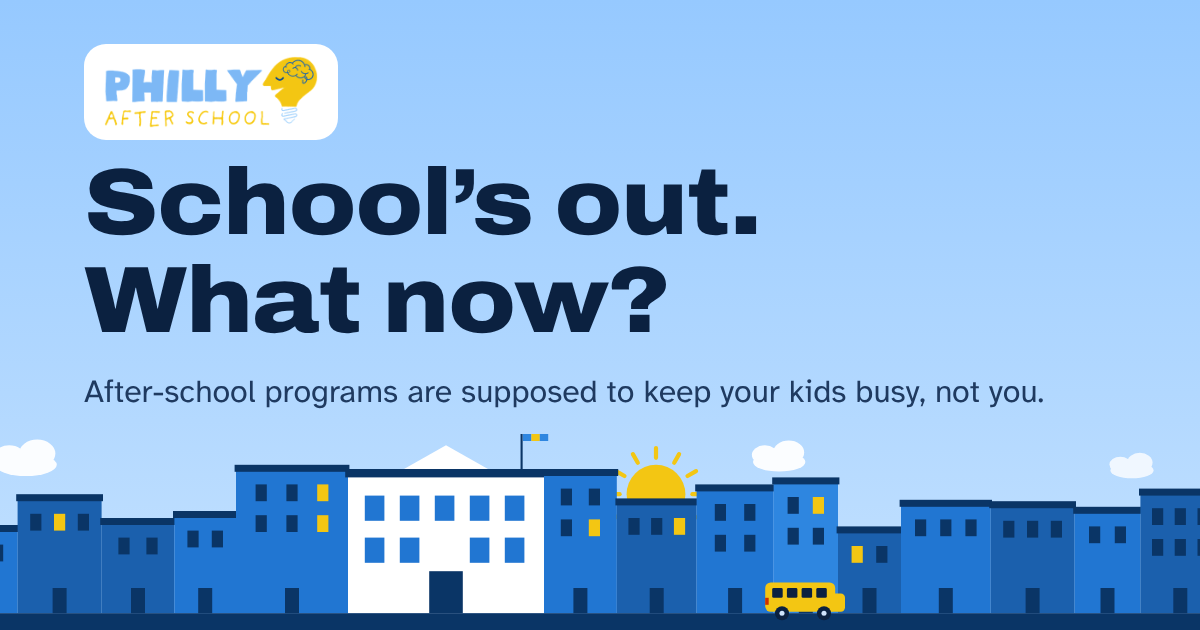
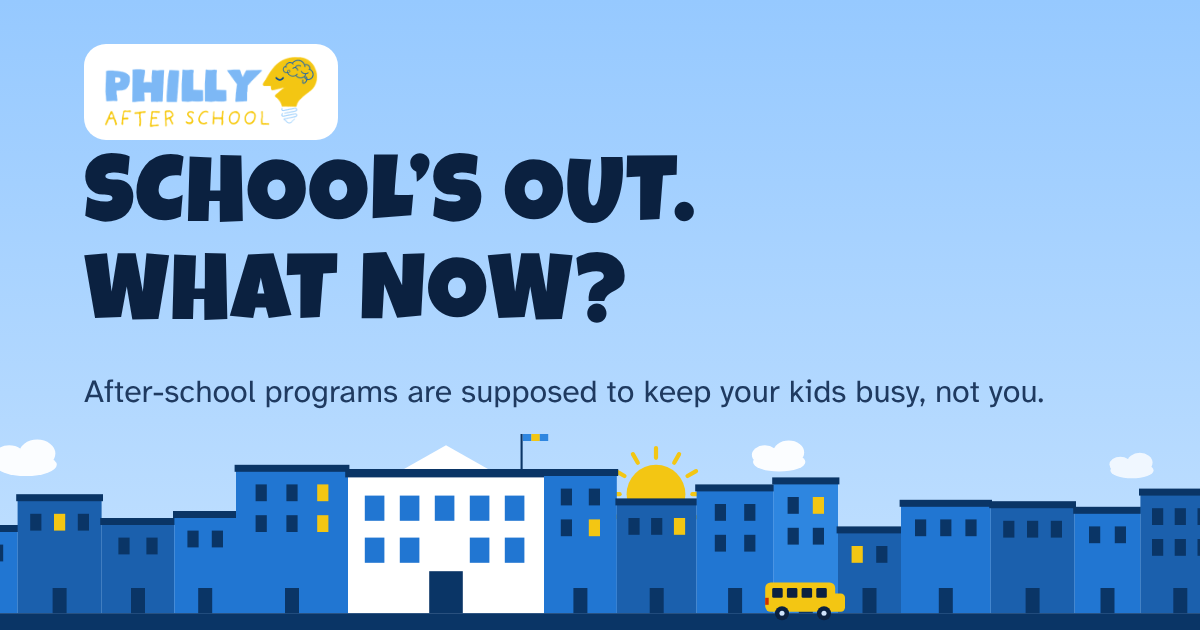
Type from the branding kit: page titles in Luckiest Guy, the line over them in Schoolbell
Free Google Fonts standing in for the kit's Kapsalon and Hangyaboly:
every h1 is now heavy painted capitals (set in capitals by CSS, so the
HTML keeps its casing) and the hero's small line (breadcrumb, school
line) is a thin print hand. Section headings, cards and body text are
unchanged. Both link-preview pictures are redrawn with the new title.

Claude-Session: https://claude.ai/code/session_014J9upzwzYj5u4U8HYNcMSU

Changed region(s): [[0.0617, 0.2413, 0.6475, 0.5429]]

diff --git a/src/site.css b/src/site.css
@@ -17,6 +17,10 @@
   --street:#0A3566; --scene-line:#0A3566; --scene-drop:#1763B8; --cloud-1:.95; --cloud-2:.8; --sun:1; --note:#0A3566;
   --display:"Archivo","Arial Black","Helvetica Neue",Arial,sans-serif;
   --body:"Atkinson Hyperlegible","Segoe UI",system-ui,sans-serif;
+  /* the branding kit's type, in free stand-ins: page titles in Luckiest Guy (for Kapsalon, heavy painted caps) and the
+     small line over a title in Schoolbell (for Hangyaboly, a thin print hand). Section headings and cards stay in Archivo. */
+  --title:"Luckiest Guy","Arial Black",Impact,sans-serif;
+  --hand:"Schoolbell","Comic Sans MS","Segoe Print",cursive;
 }
 /* One look, day or night. The site doesn't follow a device's dark setting: its colours, calendars and pictures are
    drawn for a light page. "only light" also tells browsers that darken pages by themselves to leave this one alone. */
@@ -28,7 +32,7 @@ html{-webkit-text-size-adjust:100%}
 body{margin:0;background:var(--bg);color:var(--ink);font-family:var(--body);font-size:17px;line-height:1.5}
 img,svg{max-width:100%}
 h1,h2,h3{font-family:var(--display);font-stretch:112%;text-wrap:balance;margin:0;line-height:1.08;letter-spacing:-.01em}
-h1{font-size:clamp(2.1rem,7vw,3.9rem);font-weight:850}
+h1{font-family:var(--title);font-stretch:normal;font-weight:400;text-transform:uppercase;letter-spacing:.02em;font-size:clamp(2rem,6.6vw,3.7rem);line-height:1.02}
 h2{font-size:clamp(1.3rem,3vw,1.6rem);font-weight:800}
 h3{font-size:1.2rem;font-weight:750}
 p{margin:0}
@@ -48,7 +52,7 @@ a:focus-visible,button:focus-visible,input:focus-visible,summary:focus-visible{o
 .nav a:hover,.nav a[aria-current="page"]{border-bottom-color:var(--hero-accent)}
 .hero{padding-block:clamp(28px,6vw,64px) clamp(28px,5vw,52px);display:flex;flex-direction:column;gap:18px}
 .hero .lede{color:var(--hero-muted);font-size:clamp(1.05rem,2.2vw,1.25rem);max-width:60ch}
-.hero .where{color:var(--hero-muted);font-size:1rem}
+.hero .where{color:var(--hero-muted);font-family:var(--hand);font-size:1.25rem;letter-spacing:.01em}
 .pill.multi{white-space:normal;border-radius:14px;line-height:1.35;padding:4px 12px}   /* a label long enough to run onto a second line */
 .hero .where .served{display:inline-flex;flex-wrap:wrap;gap:6px;vertical-align:middle;margin-left:8px}
 .hero .where .pill{font-size:.92rem}

diff --git a/README.md b/README.md
@@ -1056,6 +1056,16 @@ counts (the days-off card keeps "N days off still to come", and the summer card 
 stay off the home page's tiles and type chips too; a filter bar's counts and a list section's "(N)" are the live
 numbers of what is on the page, and stay.
 
+**Type.** Four faces, all from Google Fonts (one `<link>` in `layout()`): page titles (`h1`) are **Luckiest Guy**, heavy
+painted capitals (`--title`; the text is set in capitals by CSS, so a title keeps its own casing in the HTML and in
+search results), the small line over a title (`.hero .where`, the breadcrumb or the school's one-line description)
+is **Schoolbell**, a thin print hand (`--hand`), section headings, cards and buttons stay in **Archivo** (`--display`),
+and body text in **Atkinson Hyperlegible** (`--body`). The first two stand in for the branding kit's Kapsalon and
+Hangyaboly, which are not licensed for the web (Kapsalon is sold by Hanoded; Hangyaboly is free for personal use
+only): to swap the real ones in later, self-host them and change `--title` and `--hand`. The week card and the
+planners' pictures (`drawCard` in `src/site.js`) still draw in Archivo. The two link-preview pictures are drawn with
+the page title's face, so they are redrawn whenever it changes.
+
 **Colours.** Every colour is a named value at the top of `src/site.css`. The band at the top of each page is a
 daytime sky (`--hero` fading to `--hero-low`) with navy type (`--hero-ink`, `--hero-muted`); the header button
 is `--cta`; the footer keeps the deep blue (`--foot`). Navy on the sky measures 9:1 or better, above the old
